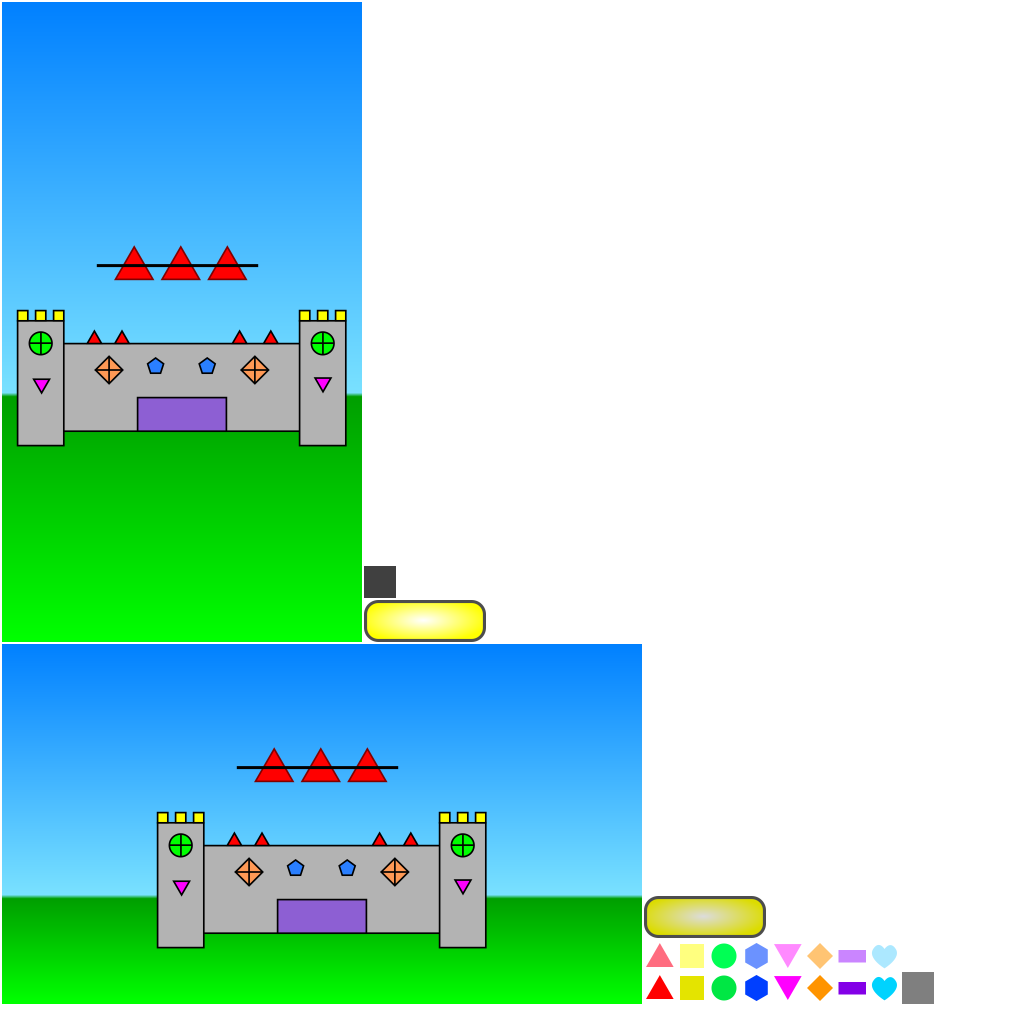
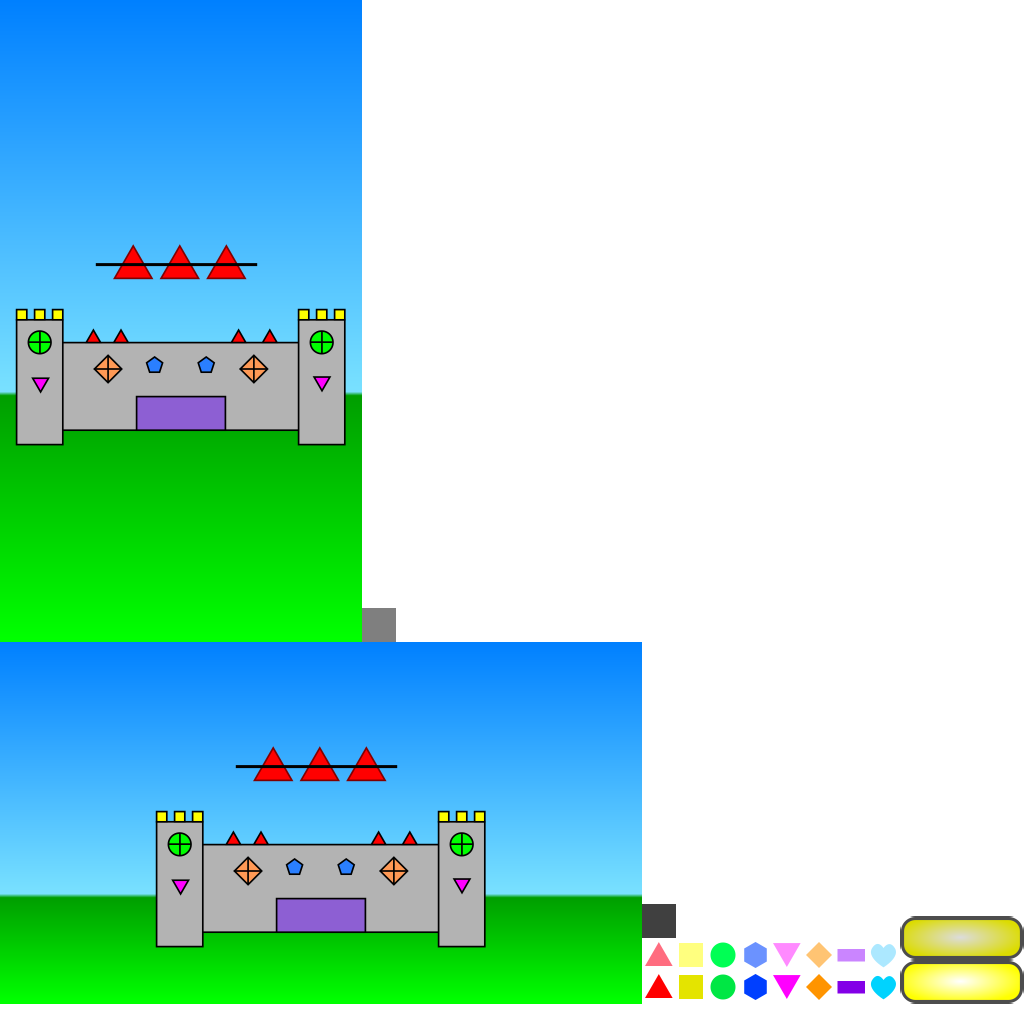
tile artifact 	modified:   android/assets/game.atlas 	modified:   android/assets/game.png 	modified:   android/assets/game_small.atlas 	modified:   android/assets/game_small.png 	modified:   core/src/com/createeternal/shapeclear/BoardRenderer.java 	modified:   desktop/src/com/createeternal/shapeclea

diff --git a/core/src/com/createeternal/shapeclear/BoardRenderer.java b/core/src/com/createeternal/shapeclear/BoardRenderer.java
@@ -39,7 +39,7 @@ public class BoardRenderer extends Actor {
 		batch.setColor(new Color(1,1,1,0.8f));
 		for(int x=0;x<board.getW();x++){
 			for(int y=0;y<board.getH();y++){
-				batch.draw(AssetLoader.board[0], startX+x*gridW, startY+y*gridH, gridW*1.02f, gridH*1.02f);
+				batch.draw(AssetLoader.board[0], startX+x*gridW, startY+y*gridH, gridW, gridH);
 			}
 		}
 		for(int x=0;x<board.getW();x++){

diff --git a/desktop/src/com/createeternal/shapeclear/desktop/DesktopLauncher.java b/desktop/src/com/createeternal/shapeclear/desktop/DesktopLauncher.java
@@ -19,6 +19,7 @@ public class DesktopLauncher {
 			settings.filterMin=TextureFilter.MipMapLinearLinear;
 			settings.filterMag=TextureFilter.Linear;
 			settings.fast=true;
+			settings.duplicatePadding=true;
 			settings.scale=new float[]{1,0.5f};
 			settings.scaleSuffix=new String[]{"e","e_small"};
 			TexturePacker.process(settings, "../../images", ".", "gam");
